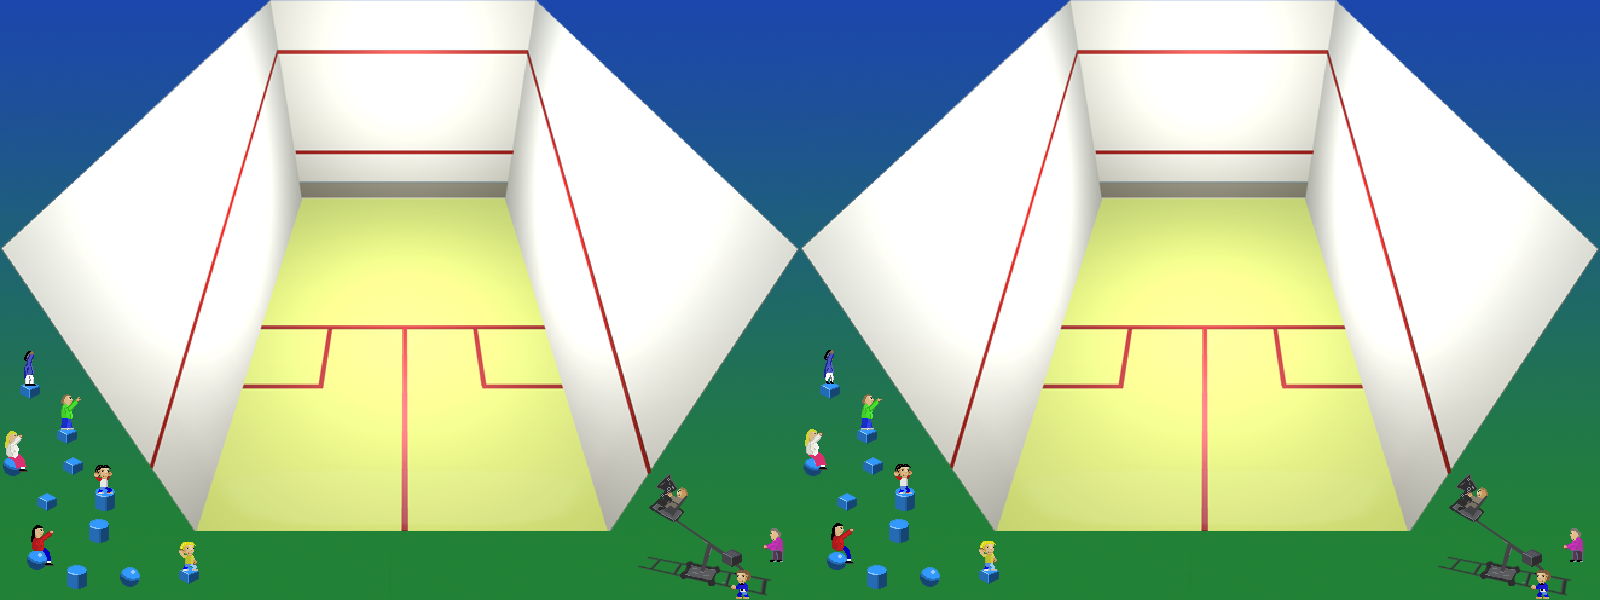
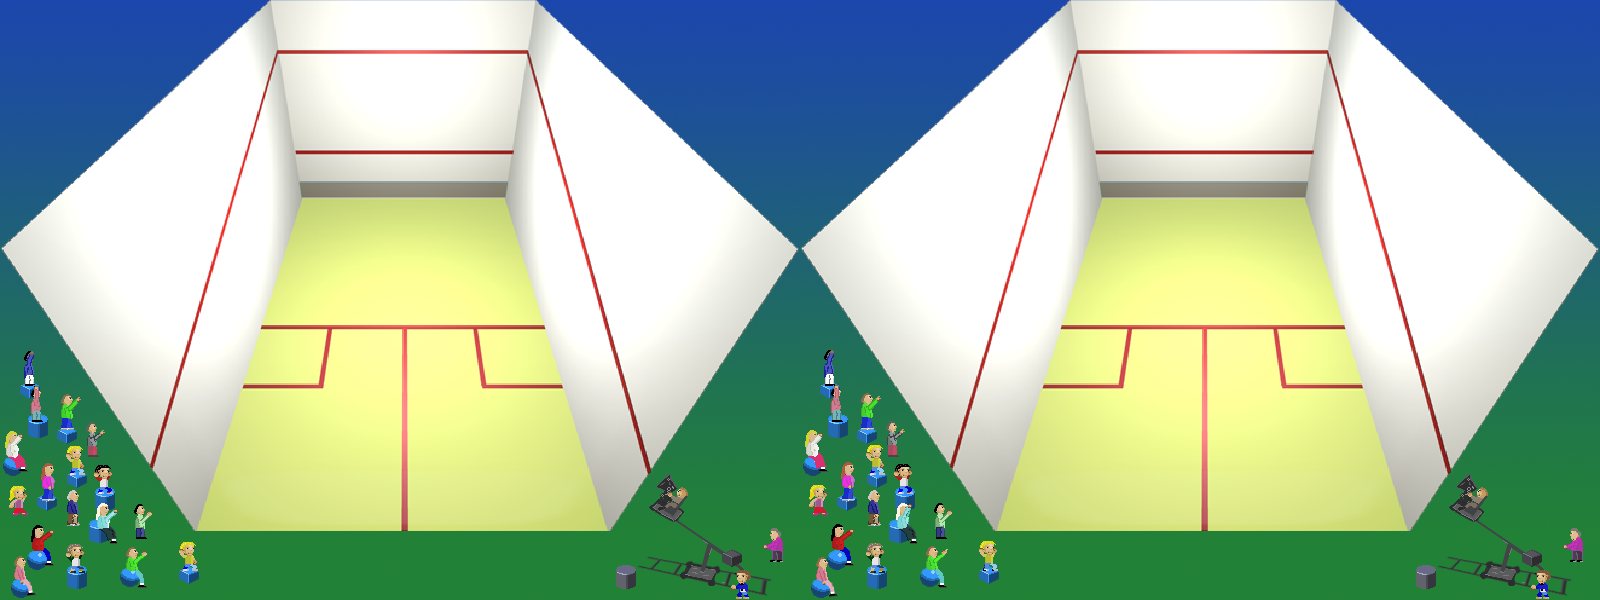
enhanced crowd animation

diff --git a/js/main.js b/js/main.js
@@ -14,6 +14,7 @@ var playerEntry;
 
 var menuLoop;
 var framesPerSecond = 30;
+var timerOnCheer=0;
 
 window.onload = function () {
     canvas = document.getElementById('gameCanvas');
@@ -87,24 +88,33 @@ function clearScreen() {
 
 function drawAll() {
     clearScreen();
-    var canvasAnimationFrames = 1600 / 800;
+    const CHEER_LOOP=20;
 
+    var canvasAnimationFrames = squashcourt_withcheer.width / 800;
+    console.log(timerOnCheer)
     if (cheerOn) {
         if (canvasFrameTimer-- < 0) {
             canvasFrameTimer = canvasStepsPerAnimFrame;
             canvasFrame++;
         }
         if (canvasFrame >= canvasAnimationFrames) {
-            canvasFrame = 0;
-            cheerOn = false;
+            if(timerOnCheer<CHEER_LOOP){
+                canvasFrame = 0;
+                timerOnCheer++;
+            } else {
+                canvasFrame = 0;
+                timerOnCheer=0;
+                cheerOn = false;
+            }
         }
         drawAtBaseSheetSprite(squashcourt_withcheer, canvasFrame, canvas.width / 2, canvas.height / 2, 800, 600);
+        
     } else {
         drawAtBaseSheetSprite(squashcourt_nocheer, 0, canvas.width / 2, canvas.height / 2, 800, 600);
     }
 
-    //drawBitmapCenteredWithRotation(squashcourt, canvas.width / 2, canvas.height / 2, 0);
     drawStaminaBar();
+    //drawMessageBoard();
     drawScoreCounter();
 
     if (serveBet) {

diff --git a/js/imageloading.js b/js/imageloading.js
@@ -43,6 +43,9 @@ var p2_right_hit = document.createElement("img");
 var p2_left_hit = document.createElement("img");
 var p1_sprint = document.createElement("img");
 
+//message board
+var floorbounce = document.createElement("img");
+
 //var front_bench = document.createElement("img");
 
 
@@ -107,8 +110,8 @@ function loadImages(){
 	{varName: p1_left_hit, theFile: "p1_left_hit.png"},
 	{varName: p2_right_hit, theFile: "p2_right_hit.png"},
 	{varName: p2_left_hit, theFile: "p2_left_hit.png"},
-	{varName: p1_sprint, theFile: "p1_sprint.png"}
-	//{varName: front_bench, theFile: "front_bench.png"}
+	{varName: p1_sprint, theFile: "p1_sprint.png"},
+	{varName: floorbounce, theFile: "floorbounce.png"}
 	
 
 	];

diff --git a/js/rules.js b/js/rules.js
@@ -1,3 +1,5 @@
+var message;
+var FLOORBOUNCE=0;
 
 
 var Rules = function Score() {
@@ -8,6 +10,7 @@ var Rules = function Score() {
         if (BallClass.bouncedOnFloor > 1) {
             self.givePoint();
             Game.RallyReset();
+            message=0;
         } else {
             //
         }
@@ -75,7 +78,10 @@ var Rules = function Score() {
     }
 
     self.givePoint = function givePoint() {
+        //crowd animation cheer
         cheerOn=true;
+        timerOnCheer=0;
+        
         Sound.play("crowd-cheer", false, 0.1);
         if (PlayerClass.swingTurn) {
             self.score.AI += 1;

diff --git a/js/UI.js b/js/UI.js
@@ -122,3 +122,16 @@ function rightToServeOutcome() {
     canvasContext.fillText(chooseLeft, canvas.width * 2 / 5, 515);
     canvasContext.fillText(chooseRight, canvas.width * 3 / 5, 515);
 }
+
+/*function drawMessageBoard(){
+    var messageBoardW=345;
+    var messageBoardH=45
+    switch (message) {
+                case FLOORBOUNCE:
+                    whichPic=floorbounce;
+                    break;
+                }
+
+    
+    drawAtBaseSheetSprite(whichPic, 0, canvas.width/2, canvas.height-10, messageBoardW, messageBoardH);
+}*/

diff --git a/js/serve.js b/js/serve.js
@@ -20,7 +20,7 @@ function ServeClass() {
     this.inPlay = false;
     this.timer = null;
     this.time = 0;
-
+    
     this.WhoServes = function () {
         if (this.matchStart) {
             if (this.servingPlayer === this.nextServingPlayer) this.flipPos *= -1;
